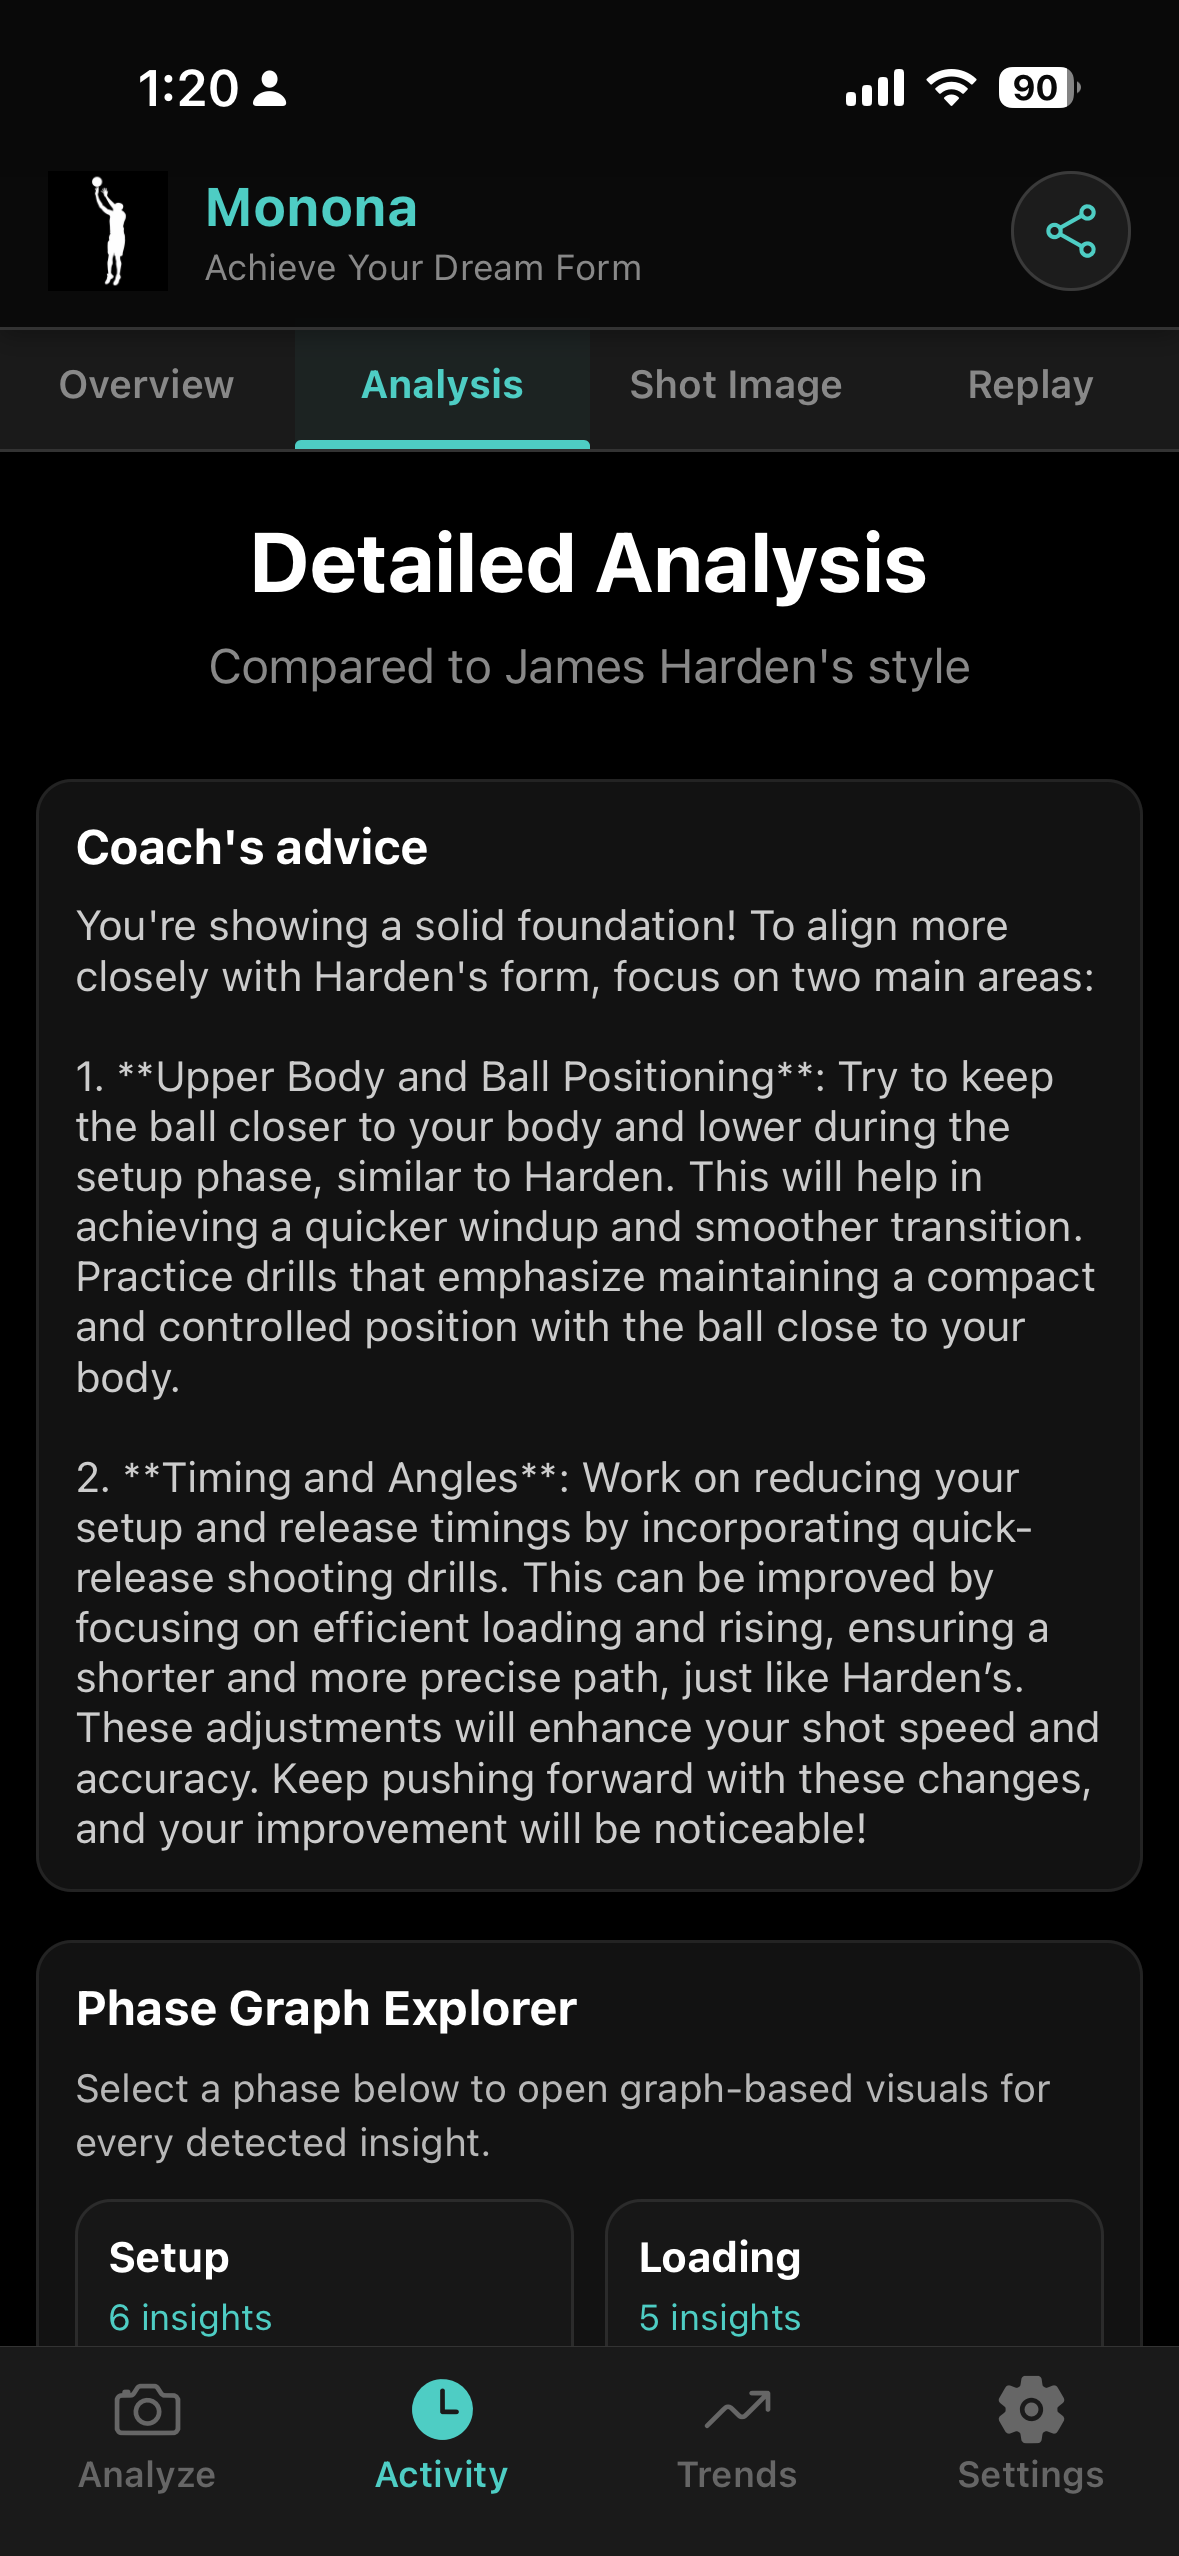
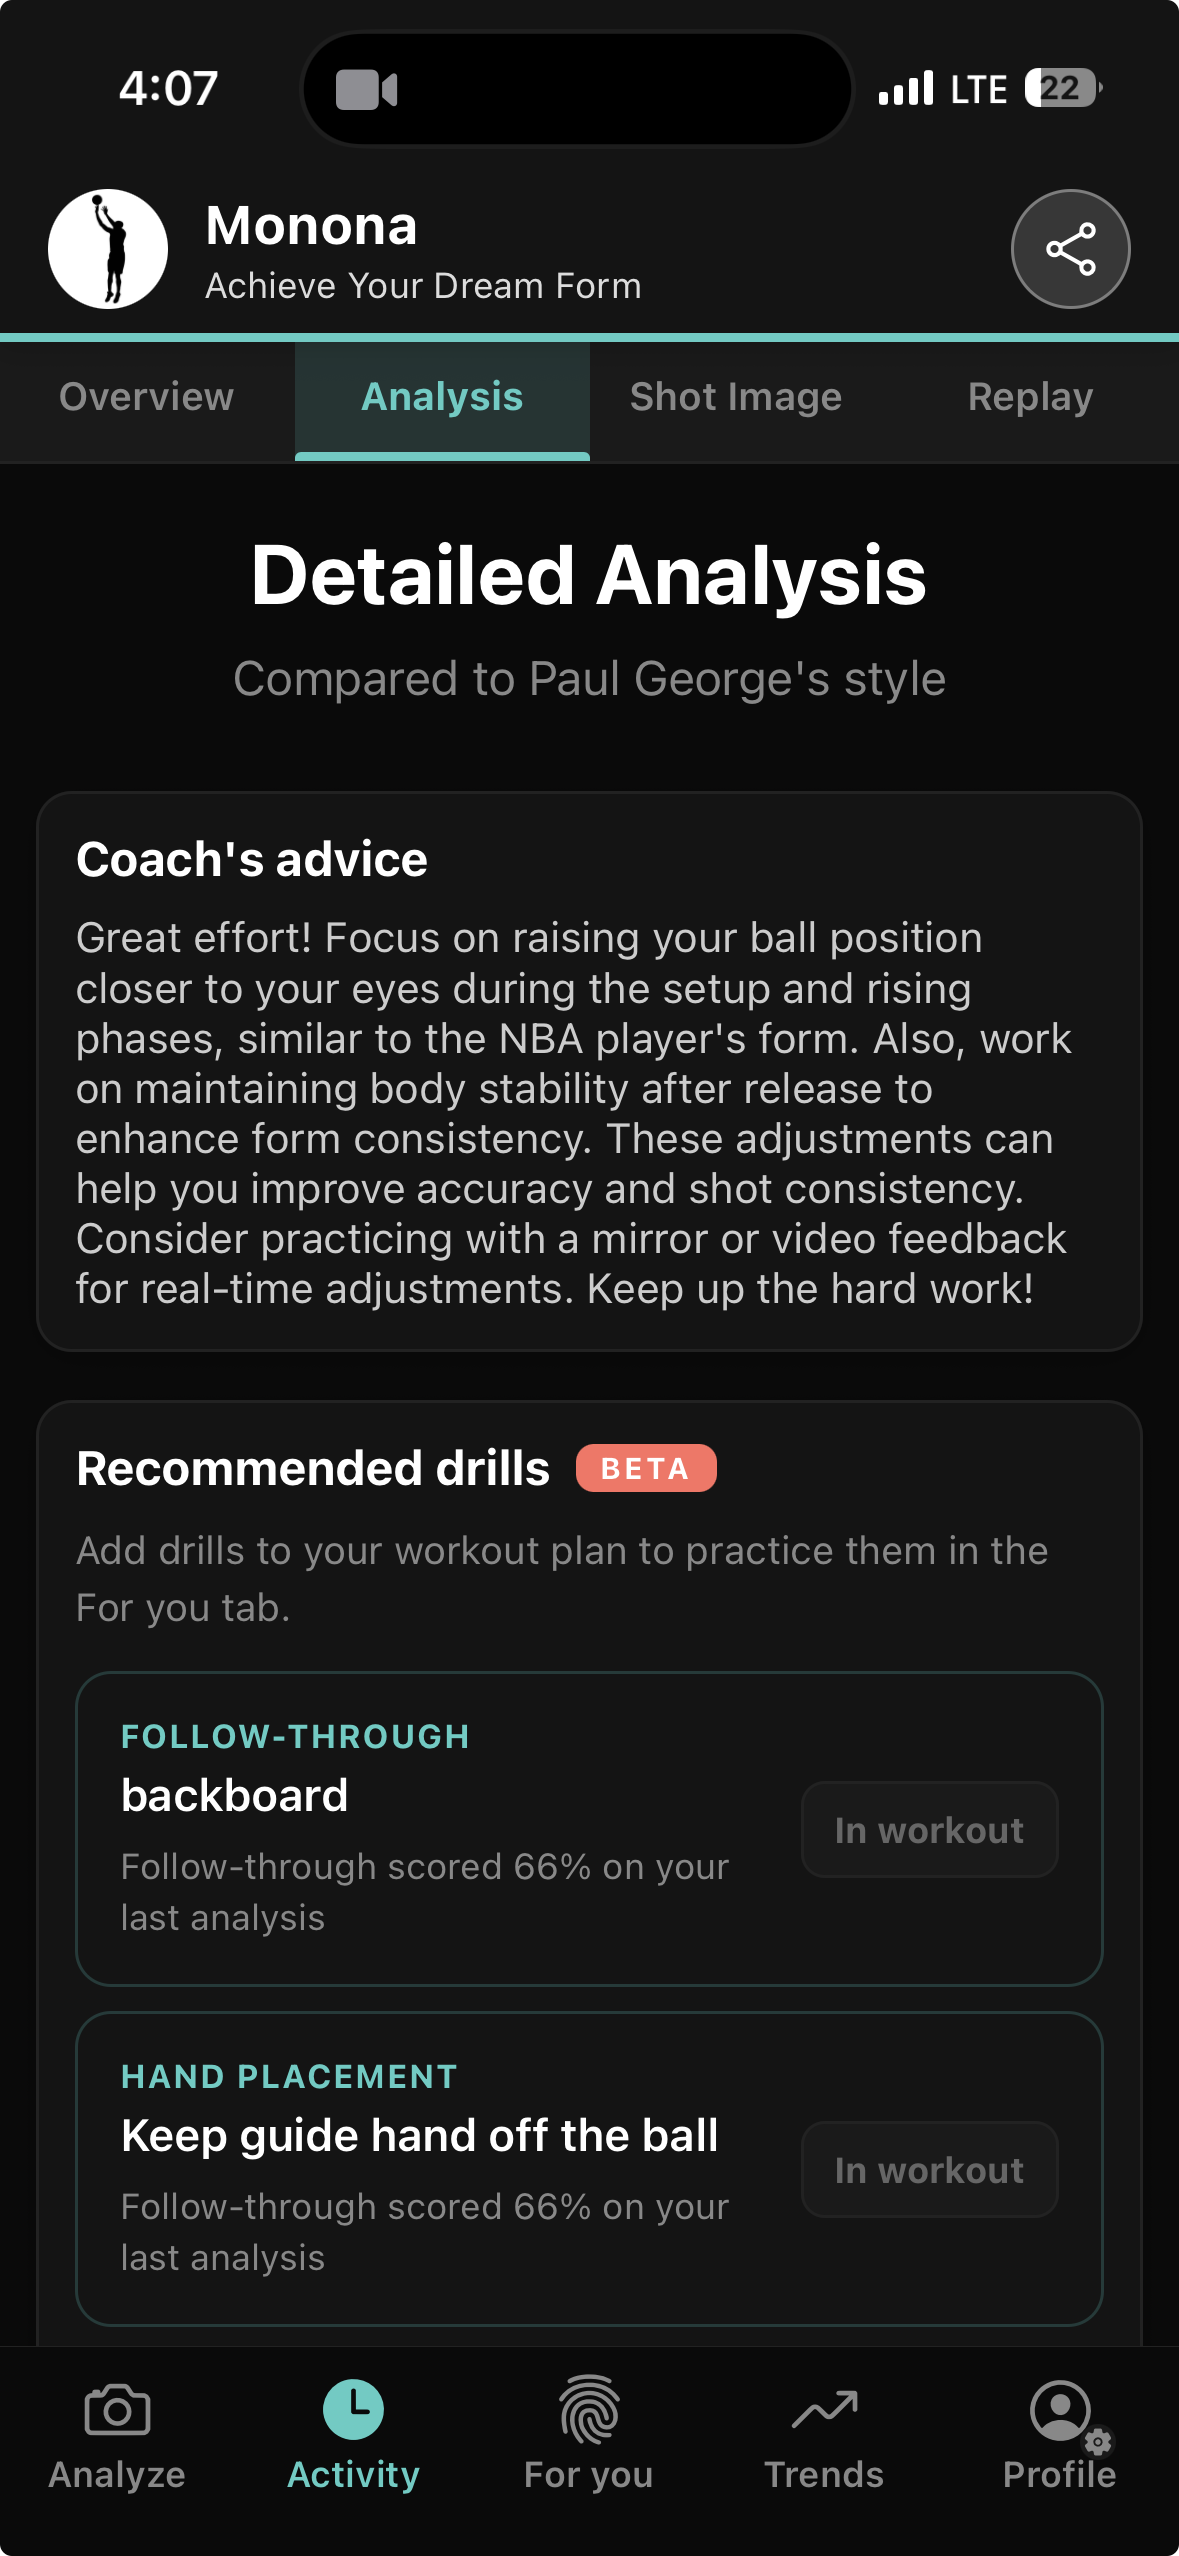
add: promo vid, drills

diff --git a/styles.css b/styles.css
@@ -108,7 +108,14 @@ body {
 }
 
 .logo img {
-    height: 50px;
+    height: 56px;
+    width: 56px;
+    padding: 8px;
+    border-radius: 50%;
+    object-fit: contain;
+    background: rgba(255, 255, 255, 0.1);
+    border: 2px solid rgba(46, 196, 182, 0.45);
+    box-shadow: 0 0 0 1px rgba(255, 255, 255, 0.06);
 }
 
 .logo-text {
@@ -263,18 +270,59 @@ body {
 }
 
 .phone-screen {
+    position: relative;
     border-radius: 28px;
     overflow: hidden;
     background: #000;
     aspect-ratio: 9 / 19.5;
 }
 
-.phone-screen img {
+.phone-screen img,
+.hero-promo-video {
     width: 100%;
     height: 100%;
     object-fit: cover;
     object-position: top center;
     display: block;
+}
+
+.hero-video-overlay {
+    position: absolute;
+    inset: 0;
+    display: none;
+    flex-direction: column;
+    align-items: center;
+    justify-content: center;
+    gap: 0.75rem;
+    padding: 1rem;
+    border: none;
+    background: rgba(0, 0, 0, 0.55);
+    color: #fff;
+    cursor: pointer;
+    font-family: inherit;
+    font-size: 0.85rem;
+    font-weight: 600;
+    text-align: center;
+    transition: background 0.2s;
+    z-index: 2;
+}
+
+.hero-video-overlay.visible {
+    display: flex;
+}
+
+.hero-video-overlay:hover {
+    background: rgba(0, 0, 0, 0.65);
+}
+
+.hero-video-overlay i {
+    font-size: 2rem;
+    color: var(--accent);
+}
+
+.hero-video-overlay span {
+    max-width: 140px;
+    line-height: 1.4;
 }
 
 .phone-caption {
@@ -461,6 +509,39 @@ body {
     color: var(--text-main);
     line-height: 1.75;
     font-size: 1.05rem;
+}
+
+.feature-badge {
+    display: inline-block;
+    background: rgba(255, 140, 66, 0.2);
+    color: var(--highlight);
+    font-size: 0.7rem;
+    font-weight: 700;
+    letter-spacing: 0.08em;
+    padding: 0.25rem 0.6rem;
+    border-radius: 6px;
+    margin-bottom: 0.75rem;
+}
+
+.feature-list {
+    margin-top: 1.25rem;
+    padding-left: 1.25rem;
+    color: var(--text-main);
+}
+
+.feature-list li {
+    margin-bottom: 0.75rem;
+    line-height: 1.65;
+    font-size: 0.98rem;
+}
+
+.feature-list strong {
+    color: var(--text-strong);
+}
+
+.feature-visual {
+    display: flex;
+    justify-content: center;
 }
 
 .reveal {
@@ -750,7 +831,9 @@ footer {
     }
 
     .logo img {
-        height: 40px;
+        height: 48px;
+        width: 48px;
+        padding: 6px;
     }
 
     .logo-text {
@@ -809,6 +892,22 @@ footer {
     .feature-icon-grid {
         grid-template-columns: 1fr;
         margin-bottom: 3rem;
+    }
+
+    .feature-row,
+    .feature-row-reverse {
+        grid-template-columns: 1fr;
+        gap: 2rem;
+        margin-bottom: 3.5rem;
+    }
+
+    .feature-row-reverse .feature-copy,
+    .feature-row-reverse .feature-visual {
+        order: unset;
+    }
+
+    .feature-visual {
+        order: -1;
     }
 
     .app-preview-grid {

diff --git a/scripts.js b/scripts.js
@@ -3,7 +3,87 @@ document.addEventListener('DOMContentLoaded', function() {
     setupNavbarScrollEffect();
     setupScrollReveal();
     setupMobileNav();
+    setupHeroVideo();
 });
+
+function setupHeroVideo() {
+    const video = document.querySelector('.hero-promo-video');
+    const overlay = document.querySelector('.hero-video-overlay');
+    const hero = document.querySelector('#home.hero');
+    if (!video) return;
+
+    let wasPlaying = false;
+    let heroInView = true;
+    let pageVisible = !document.hidden;
+    let windowFocused = document.hasFocus();
+
+    function hideOverlay() {
+        if (overlay) overlay.classList.remove('visible');
+    }
+
+    function showOverlay() {
+        if (overlay) overlay.classList.add('visible');
+    }
+
+    function shouldPlay() {
+        return wasPlaying && heroInView && pageVisible && windowFocused;
+    }
+
+    function updatePlayback() {
+        if (shouldPlay()) {
+            video.play().then(hideOverlay).catch(function() {
+                showOverlay();
+            });
+        } else if (!video.paused) {
+            video.pause();
+        }
+    }
+
+    function tryPlay() {
+        video.muted = false;
+        return video.play().then(function() {
+            wasPlaying = true;
+            hideOverlay();
+        }).catch(function() {
+            showOverlay();
+        });
+    }
+
+    video.addEventListener('playing', function() {
+        wasPlaying = true;
+        hideOverlay();
+    });
+
+    if (overlay) {
+        overlay.addEventListener('click', function() {
+            tryPlay();
+        });
+    }
+
+    if (hero) {
+        new IntersectionObserver(function(entries) {
+            heroInView = entries[0].isIntersecting;
+            updatePlayback();
+        }, { threshold: 0 }).observe(hero);
+    }
+
+    document.addEventListener('visibilitychange', function() {
+        pageVisible = !document.hidden;
+        updatePlayback();
+    });
+
+    window.addEventListener('blur', function() {
+        windowFocused = false;
+        updatePlayback();
+    });
+
+    window.addEventListener('focus', function() {
+        windowFocused = true;
+        updatePlayback();
+    });
+
+    tryPlay();
+}
 
 function setupSmoothScrolling() {
     const links = document.querySelectorAll('a[href^="#"]');

diff --git a/index.html b/index.html
@@ -51,7 +51,19 @@
             <div class="hero-visual">
                 <div class="phone-mockup phone-mockup-hero">
                     <div class="phone-screen">
-                        <img src="app_images/similarityScore/similarityScore3.png" alt="Pro player similarity score in Monona Coach app">
+                        <video
+                            class="hero-promo-video"
+                            src="app_images/promo.mp4"
+                            autoplay
+                            loop
+                            playsinline
+                            preload="auto"
+                            aria-label="Monona Coach app promo video">
+                        </video>
+                        <button type="button" class="hero-video-overlay" aria-label="Tap to play with sound">
+                            <i class="fa-solid fa-play"></i>
+                            <span>Tap to play with sound</span>
+                        </button>
                     </div>
                 </div>
             </div>
@@ -71,7 +83,7 @@
         <div class="container">
             <div class="section-header reveal">
                 <h2>Everything you need to perfect your shot</h2>
-                <p>Pro comparison, AI coaching, and deep analytics — built for players who want real improvement.</p>
+                <p>Pro comparison, AI coaching, personalized drills, and deep analytics — built for players who want real improvement.</p>
             </div>
 
             <div class="feature-icon-grid reveal">
@@ -105,6 +117,32 @@
                     <h3>Share Highlights</h3>
                     <p>Export your match cards and share your progress on social media.</p>
                 </article>
+                <article class="feature-icon-card">
+                    <div class="feature-icon"><i class="fa-solid fa-dumbbell"></i></div>
+                    <h3>Personalized Drills</h3>
+                    <p>Daily drills built from your analysis — balance, arch, follow-through, and more.</p>
+                </article>
+            </div>
+
+            <div class="feature-row feature-row-reverse reveal">
+                <div class="feature-copy">
+                    <span class="feature-badge">BETA</span>
+                    <h3>Personalized Drills &amp; Workout Plans</h3>
+                    <p>Monona builds a daily workout plan from your shot analysis — not generic drills, but exercises targeting your specific form issues.</p>
+                    <ul class="feature-list">
+                        <li><strong>Your workout plan</strong> — a curated daily list based on what your analysis finds</li>
+                        <li><strong>Targeted categories</strong> — balance, flat arch, follow-through, hand placement, setpoint, and more</li>
+                        <li><strong>Track progress</strong> — completion ring shows how many drills you've finished today</li>
+                        <li><strong>Actionable drills</strong> — e.g. "Keep guide hand off the ball", "One-hand follow-through"</li>
+                    </ul>
+                </div>
+                <div class="feature-visual">
+                    <div class="phone-mockup">
+                        <div class="phone-screen">
+                            <img src="app_images/drills/foryou.png" alt="For you tab showing personalized daily workout plan and drills">
+                        </div>
+                    </div>
+                </div>
             </div>
 
             <div class="app-preview reveal">